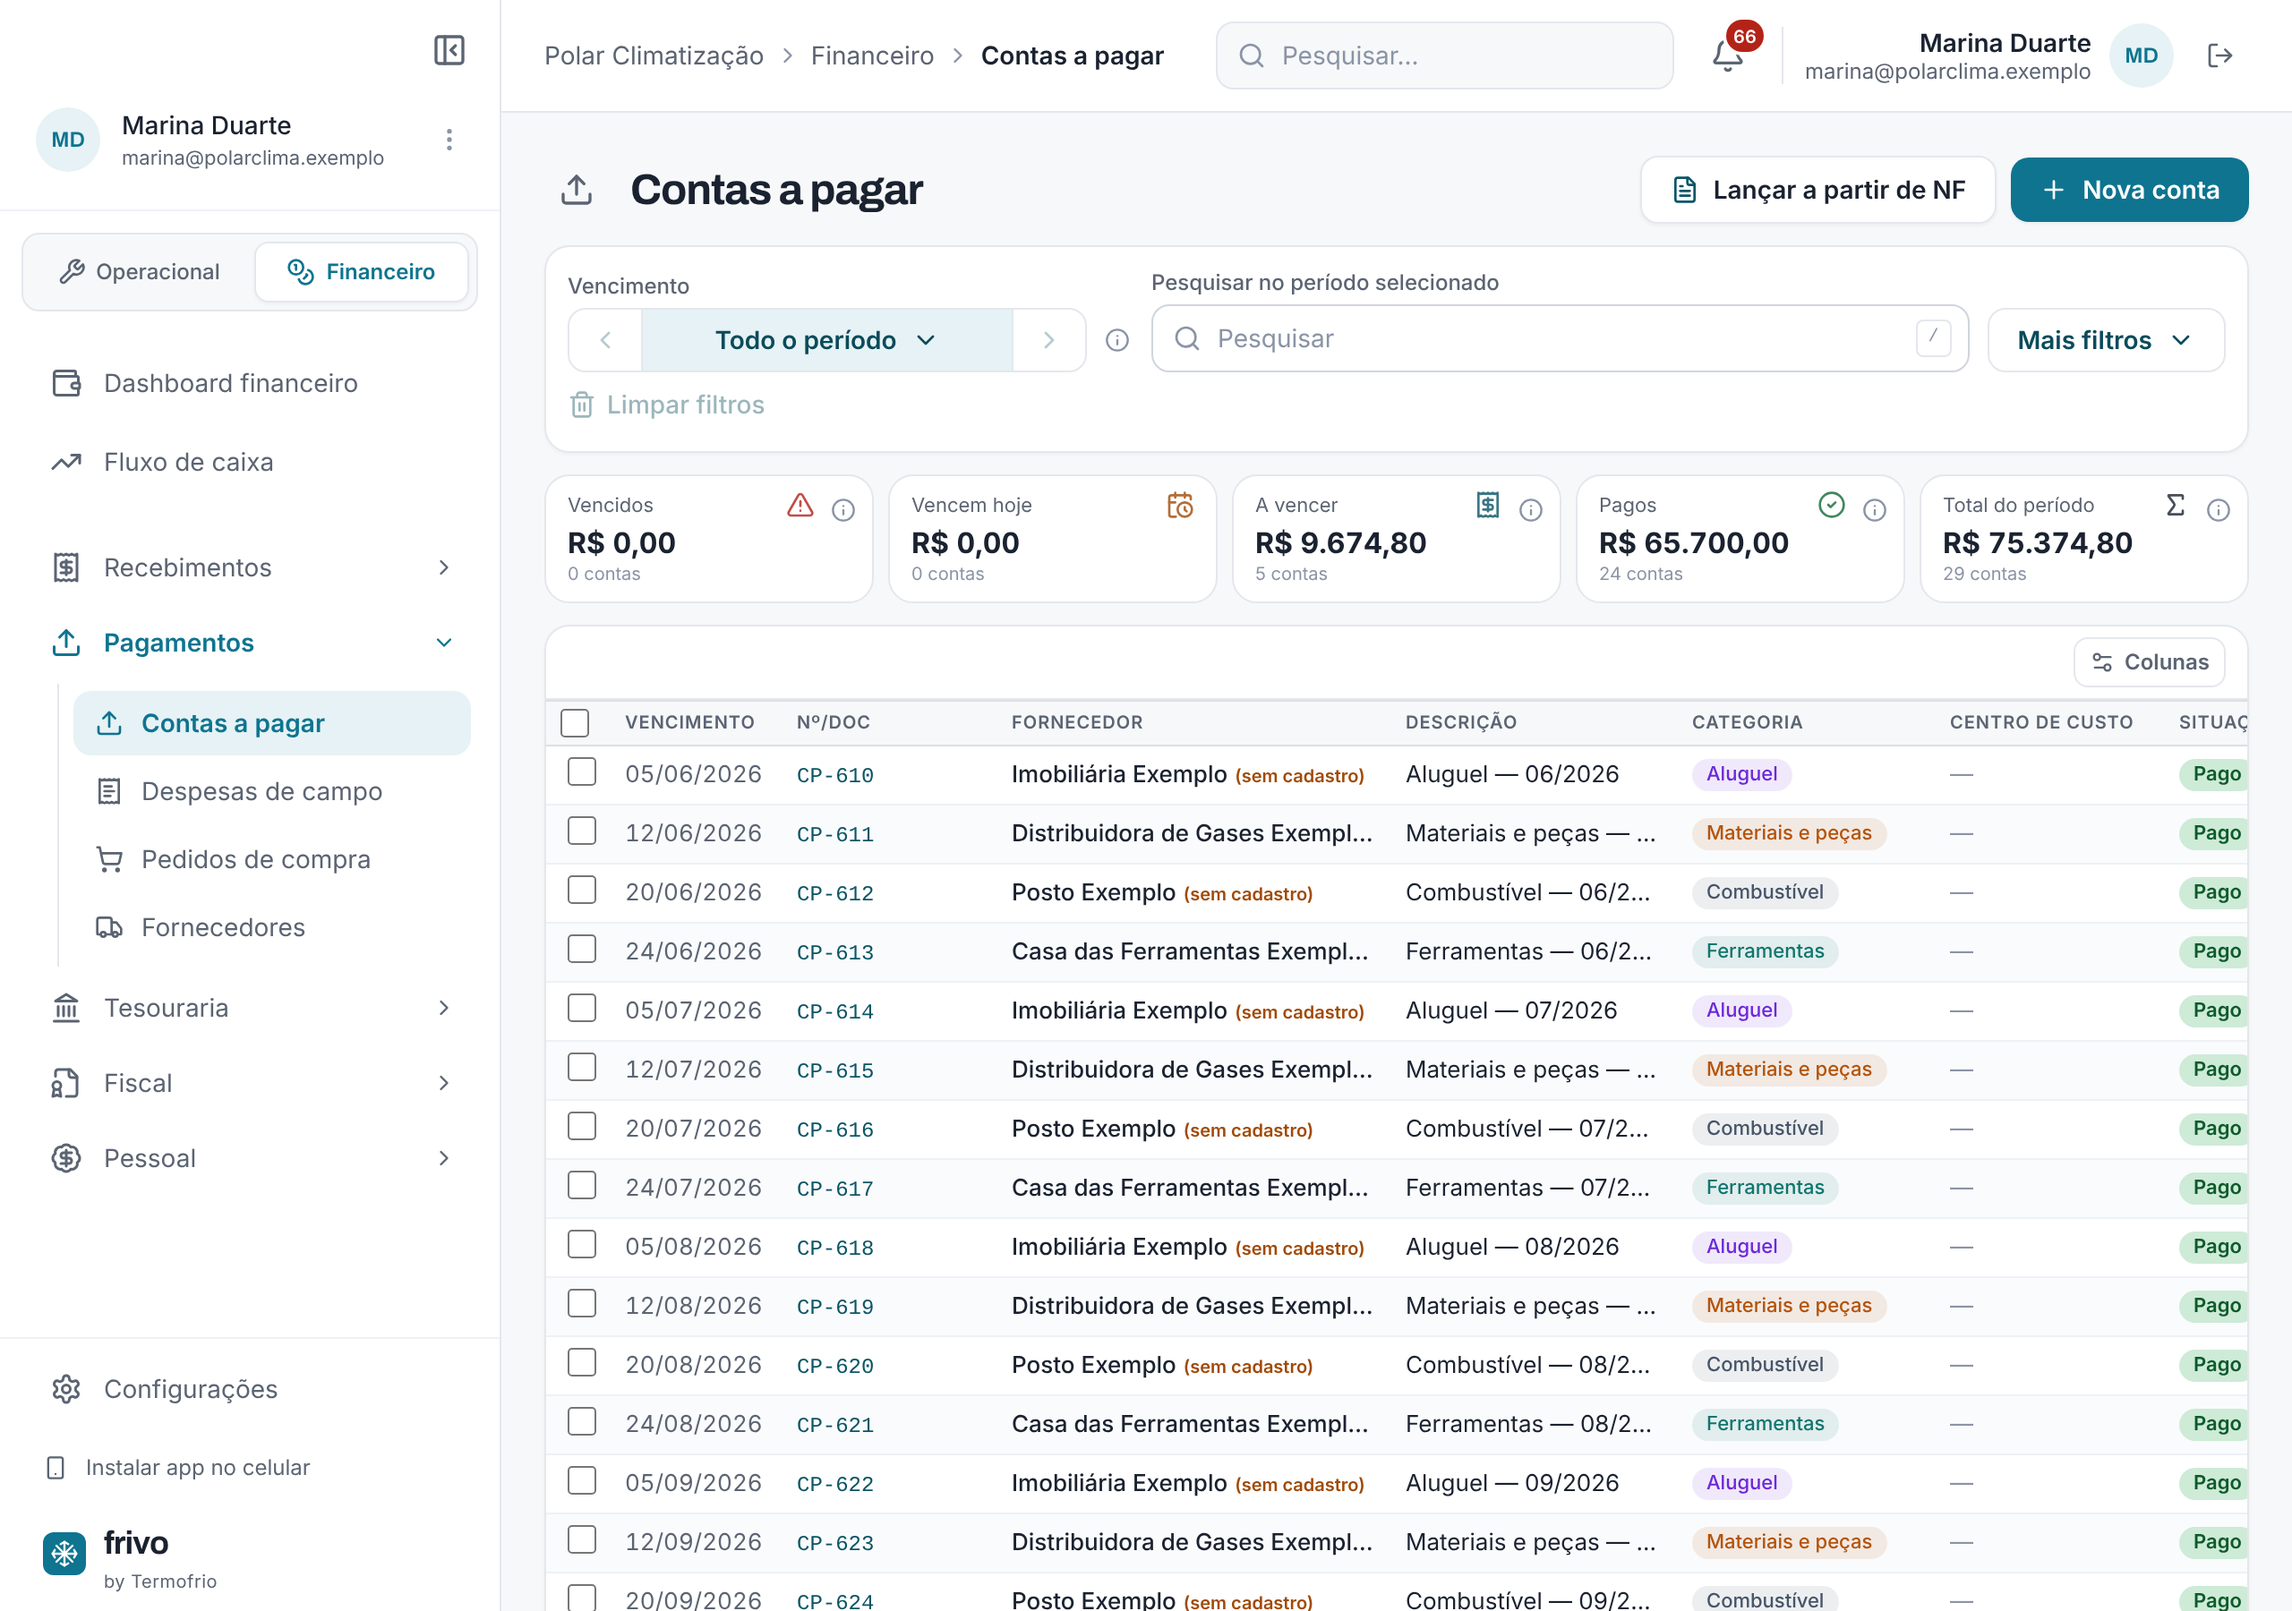
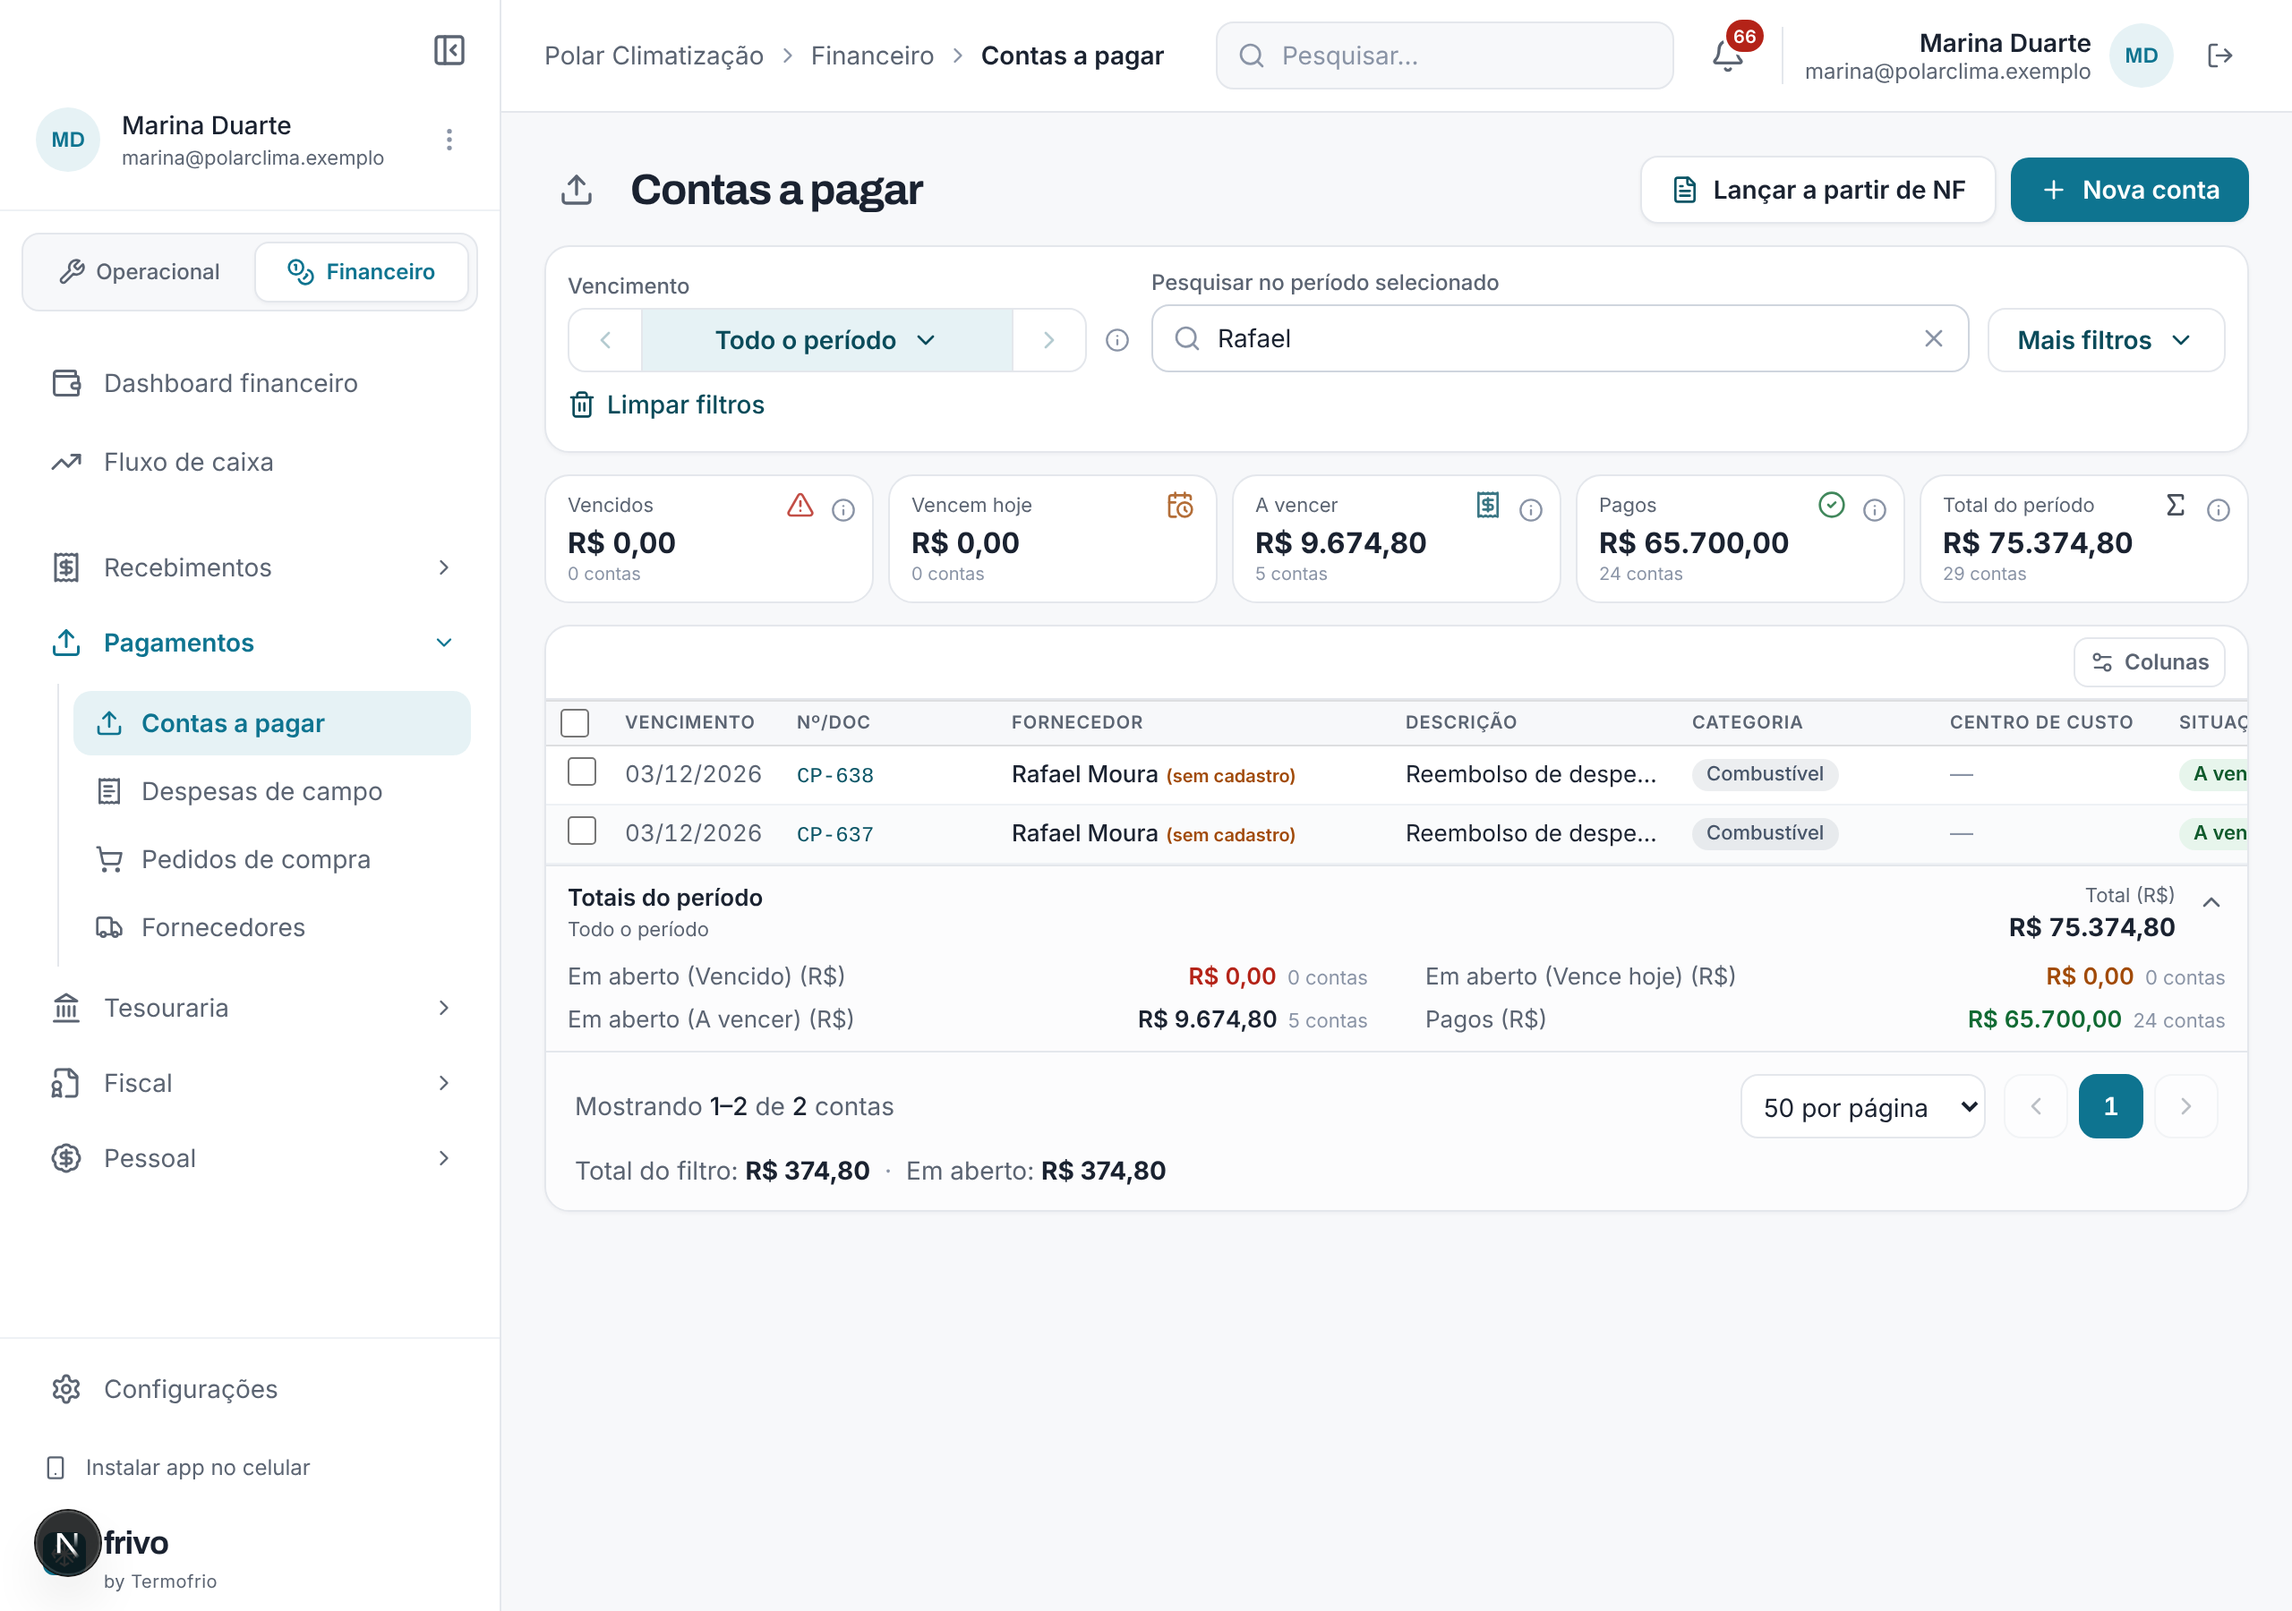
App de campo, leva 2 (PR B): doc, prints refeitos, provas de dois mutantes vivos
Claude-Session: https://claude.ai/code/session_01HN9DusJjuNk9mHea6vas29

diff --git a/tests/unit/app-campo-leva2-despesas-pg.test.ts b/tests/unit/app-campo-leva2-despesas-pg.test.ts
@@ -111,6 +111,10 @@ describe.skipIf(!URL_PG)("app de campo, leva 2 (PR B): despesas de campo (Postgr
         ["d2", "t1", "uT", null, null, "PEDAGIO", 12.5, "EMPRESA", "PENDENTE", null],
       ]);
       expect(l[0].foto.conteudo).toBe(FOTO);
+      // Descrição só de espaços: fica vazia (não grava texto em branco)
+      expect((await sync([despesa(SEM_OS, "d0", { descricao: "   " })]))[0]).toMatchObject({ ok: true, status: 201 });
+      expect((await prisma.despesaCampo.findFirst({ where: { clientId: "d0" } })).descricao).toBeNull();
+      await prisma.despesaCampo.deleteMany({ where: { clientId: "d0" } });
     });
     it("da OS: liga à OS e à atividade (também com a atividade concluída); nunca na OS de outro técnico", async () => {
       comoTecnico();
@@ -255,6 +259,7 @@ describe.skipIf(!URL_PG)("app de campo, leva 2 (PR B): despesas de campo (Postgr
       expect((await recusar(id, { motivo: "  Cupom ilegível: tire outra foto.  " })).status).toBe(200);
       expect((await recusar(id, { motivo: "De novo" })).status).toBe(409);
       expect((await aprovar(id, { vencimento: HOJE })).status).toBe(409);
+      expect(await aprovar(id)).toMatchObject({ status: 409, json: { erro: "Esta despesa já foi decidida." } }); // não pede vencimento de quem já foi decidida
       expect(await prisma.contaPagar.count({ where: { tecnicoId: "t2" } })).toBe(0);
       comoTecnico("t2", "uT2", "maria@clima.com");
       expect((await minhas()).despesas).toEqual([expect.objectContaining({ clientId: "dM", situacao: "RECUSADA", motivoRecusa: "Cupom ilegível: tire outra foto." })]);

diff --git a/components/financeiro/despesas-campo-view.tsx b/components/financeiro/despesas-campo-view.tsx
@@ -178,7 +178,7 @@ function ModalAprovar({ d, cats, onFechar, onFeito }: { d: DespesaEscritorio; ca
             <label className="block space-y-1">
               <span className="text-sm font-semibold text-ink">Categoria financeira</span>
               <Select value={categoriaId} onChange={(e) => setCategoriaId(e.target.value)} aria-label="Categoria financeira" data-categoria-financeira>
-                <option value="">{d.categoriaNome} (criar)</option>
+                <option value="">{d.categoriaNome} (nova)</option>
                 {cats?.ativas.map((c) => <option key={c.id} value={c.id}>{c.nome}</option>)}
               </Select>
             </label>
@@ -246,7 +246,7 @@ function ModalCategorias({ cats, onFechar, onSalvo }: { cats: Categorias; onFech
           <label key={c.id} className="grid grid-cols-1 sm:grid-cols-2 gap-1 sm:gap-3 sm:items-center">
             <span className="text-sm font-semibold text-ink">{c.nome}</span>
             <Select value={mapa[c.id]} onChange={(e) => setMapa((m) => ({ ...m, [c.id]: e.target.value }))} aria-label={`Categoria financeira de ${c.nome}`} data-mapa={c.id}>
-              <option value="">{c.nome} (criar ao aprovar)</option>
+              <option value="">{c.nome} (nova)</option>
               {cats.ativas.map((a) => <option key={a.id} value={a.id}>{a.nome}</option>)}
             </Select>
           </label>

diff --git a/docs/tecnico-campo-leva2.md b/docs/tecnico-campo-leva2.md
@@ -73,3 +73,74 @@ depois da leitura.
 
 `docs/prints/tecnico-campo-leva2/`: `antes-*` (app e escritório) e `depois-20…26` (iPhone 13, Pixel 7, desktop),
 `depois-30` (sino) e `depois-31` (card do escritório, desktop e celular). Dados fictícios.
+
+## PR B: despesas de campo com foto do cupom
+
+Não existia módulo de despesas nem de reembolso. O mínimo que entrou, com as decisões do Zé:
+
+### No app (técnico)
+
+- **Onde lança:** "Lançar despesa" no **Meu dia** (despesa sem OS: pedágio, combustível do dia) e "Lançar despesa desta OS"
+  na tela da OS (a despesa fica ligada à OS). "Minhas despesas" fica no **Perfil**.
+- **O que pede:** categoria (lista fixa: Combustível, Pedágio, Estacionamento, Alimentação, Hospedagem, Material
+  comprado em campo, Outros), valor, dia, **como foi paga** ("Do meu bolso" ou "Cartão ou dinheiro da empresa"),
+  descrição (obrigatória só em Outros) e a **foto do cupom** (obrigatória). O botão "Lançar" só acende completo.
+- **Sem sinal:** grava no aparelho e sobe sozinha. Reenviar não duplica (`client_id`).
+- **Minhas despesas:** só as do próprio colaborador, dos últimos 90 dias: "No aparelho", "Aguardando aprovação",
+  "Aprovada", "Recusada" (com o motivo) e "Reembolsada" (a conta de reembolso foi paga). O envio recusado pelo servidor
+  aparece como "Não enviada", com o motivo.
+- **O técnico nunca vê custo da OS:** a lista dele não traz OS alheias, conta a pagar nem valores de outros.
+- **Permissão:** "Lançar despesas pelo app" em **Equipes › App do colaborador**, **ligada** por padrão. Desligada, o
+  botão some e o servidor recusa.
+- **Regras do servidor:** dia não pode ser no futuro nem ter mais de 60 dias; valor maior que zero, até R$ 100.000, no
+  máximo 2 casas; foto de verdade (JPG, PNG, WEBP ou HEIC, até 5 MB); só nas OS em que o técnico tem atividade (também
+  com a atividade concluída). Usuário sem colaborador ligado não lança (aviso na tela).
+
+### No escritório
+
+- **Financeiro › Pagamentos › Despesas de campo** (link novo no menu). Filtros: A aprovar (padrão), Aprovadas,
+  Recusadas, Todas. No topo: quantas esperam decisão, o total e quanto disso é reembolso.
+- **Cupom:** abre a foto em tela cheia, com "Baixar".
+- **Aprovar** (quem lança contas a pagar: Financeiro › Fluxo de caixa):
+  - **do bolso do colaborador:** pede o vencimento (sugere daqui a 7 dias) e a categoria financeira; gera **uma** conta
+    a pagar de reembolso com o colaborador como favorecido. Dois cliques ou duas pessoas ao mesmo tempo não geram duas;
+  - **pela empresa:** só registra (fica como custo da OS), sem conta a pagar.
+- **Recusar:** motivo obrigatório. O colaborador lê o motivo no app.
+- **Categorias:** cada categoria fixa ligada a uma categoria financeira. Padrão: a de mesmo nome (sem diferença de
+  maiúsculas ou acentos); se não existir, é criada na primeira aprovação. A empresa troca em "Categorias".
+- **Na OS:** aba **Financeiro**, card "Despesas de campo" com o **custo aprovado** (soma só as aprovadas), para quem vê
+  o Financeiro. Some quando a OS não tem despesa.
+- **Sino:** "Despesas de campo a aprovar", para quem lança contas a pagar.
+
+### 🔵 Banco (PR B) — duas colunas e duas tabelas novas, aditivas
+
+**SQL gerado e NÃO aplicado:** `prisma/sql/2027-02-04_app_despesas_campo.sql`.
+
+- `configuracoes.app_lancar_despesas` (padrão **ligado**) e `configuracoes.despesas_campo_categorias` (o mapa);
+- `despesas_campo` (a despesa, a decisão e a conta de reembolso) e `despesas_campo_fotos` (a foto, à parte: a lista
+  nunca arrasta a imagem).
+- Aditivo e idempotente. **Rodar ANTES do merge** (depois do SQL do PR A):
+  `psql "$DATABASE_URL" -v ON_ERROR_STOP=1 -f prisma/sql/2027-02-04_app_despesas_campo.sql`
+
+### Mudanças fora do app do técnico (PR B)
+
+| Arquivo | Por quê |
+|---|---|
+| `app/(dashboard)/financeiro/despesas-campo/`, `components/financeiro/despesas-campo-view.tsx`, `app/api/despesas-campo/` | A tela e as rotas do escritório |
+| `components/os/despesas-campo-os.tsx`, `components/os/os-detalhe.tsx`, `app/api/ordens/[id]/despesas-campo` | O card na aba Financeiro da OS |
+| `components/layout/sidebar.tsx`, `components/layout/header.tsx` | O link no menu, o nome no caminho do topo e o item do sino |
+| `lib/alertas/sino.ts`, `app/api/alertas/route.ts` | A contagem do sino |
+| `app/api/configuracoes/route.ts`, `components/equipes/app-colaborador-client.tsx` | A permissão "Lançar despesas pelo app" |
+| `prisma/schema.prisma` | Os dois modelos, as duas colunas e as relações de volta |
+
+### Achados nos prints (PR B)
+
+- O "← Perfil" grudava no título "Minhas despesas" (mesma linha, sem espaço). Corrigido.
+- O caminho do topo do escritório mostrava "Despesas-cam…". Ganhou o nome "Despesas de campo".
+
+### Prints (PR B)
+
+`depois-40…44` (iPhone 13, Pixel 7, desktop): botão no Meu dia, lançamento preenchido, lançamento sem sinal
+("No aparelho"), sincronizado, e a lista depois da decisão do escritório. `depois-50…59` (escritório): sino, lista a
+aprovar, cupom, aprovar com reembolso, recusar, aprovar paga pela empresa, decididas (desktop e celular), categorias,
+card na OS e a conta de reembolso em Contas a pagar. O cupom é uma imagem fictícia ("DOCUMENTO FICTÍCIO").
